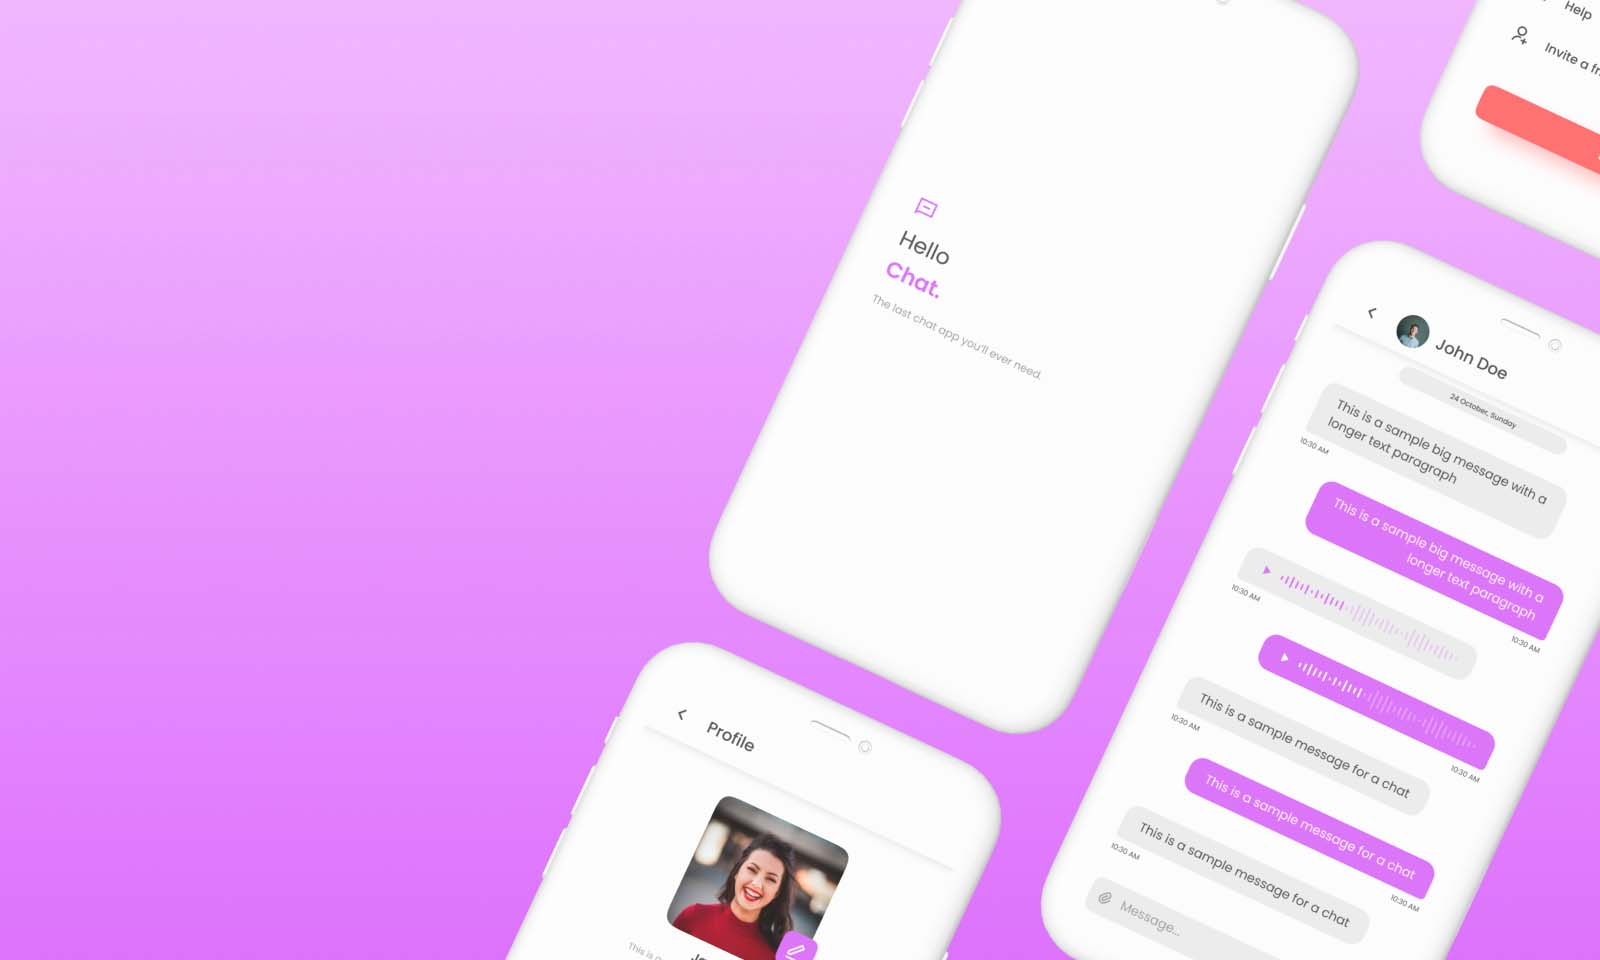
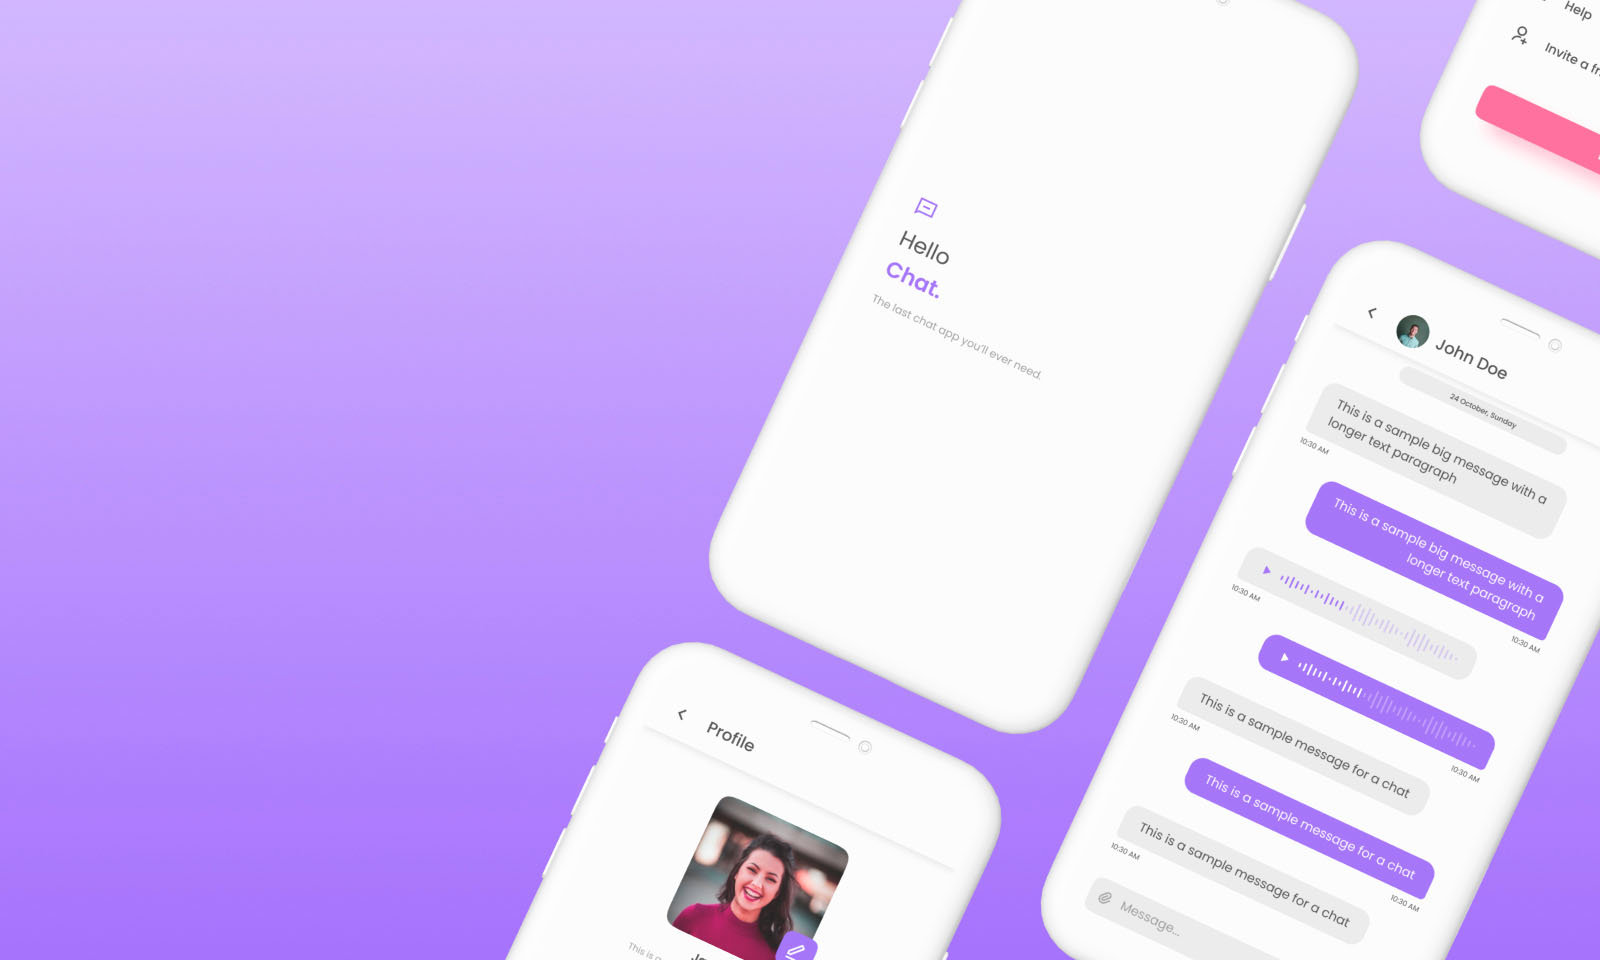
init: passport, passport-jwt; feat: checking token in start && add page loader; fix: styles;

diff --git a/frontend/src/components/icons/IconChatStatus.vue b/frontend/src/components/icons/IconChatStatus.vue
@@ -11,11 +11,11 @@
     <g id="SVGRepo_tracerCarrier" stroke-linecap="round" stroke-linejoin="round" />
 
     <g id="SVGRepo_iconCarrier">
-      <path d="M8 9H16" stroke="#c571f8" stroke-width="1.5" stroke-linecap="round" />
-      <path d="M8 12.5H13.5" stroke="#c571f8" stroke-width="1.5" stroke-linecap="round" />
+      <path d="M8 9H16" stroke="#9a78d8" stroke-width="1.5" stroke-linecap="round" />
+      <path d="M8 12.5H13.5" stroke="#9a78d8" stroke-width="1.5" stroke-linecap="round" />
       <path
         d="M13.0867 21.3877L13.7321 21.7697L13.0867 21.3877ZM13.6288 20.4718L12.9833 20.0898L13.6288 20.4718ZM10.3712 20.4718L9.72579 20.8539H9.72579L10.3712 20.4718ZM10.9133 21.3877L11.5587 21.0057L10.9133 21.3877ZM1.25 10.5C1.25 10.9142 1.58579 11.25 2 11.25C2.41421 11.25 2.75 10.9142 2.75 10.5H1.25ZM3.07351 15.6264C2.915 15.2437 2.47627 15.062 2.09359 15.2205C1.71091 15.379 1.52918 15.8177 1.68769 16.2004L3.07351 15.6264ZM7.78958 18.9915L7.77666 19.7413L7.78958 18.9915ZM5.08658 18.6194L4.79957 19.3123H4.79957L5.08658 18.6194ZM21.6194 15.9134L22.3123 16.2004V16.2004L21.6194 15.9134ZM16.2104 18.9915L16.1975 18.2416L16.2104 18.9915ZM18.9134 18.6194L19.2004 19.3123H19.2004L18.9134 18.6194ZM19.6125 2.7368L19.2206 3.37628L19.6125 2.7368ZM21.2632 4.38751L21.9027 3.99563V3.99563L21.2632 4.38751ZM4.38751 2.7368L3.99563 2.09732V2.09732L4.38751 2.7368ZM2.7368 4.38751L2.09732 3.99563H2.09732L2.7368 4.38751ZM9.40279 19.2098L9.77986 18.5615L9.77986 18.5615L9.40279 19.2098ZM13.7321 21.7697L14.2742 20.8539L12.9833 20.0898L12.4412 21.0057L13.7321 21.7697ZM9.72579 20.8539L10.2679 21.7697L11.5587 21.0057L11.0166 20.0898L9.72579 20.8539ZM12.4412 21.0057C12.2485 21.3313 11.7515 21.3313 11.5587 21.0057L10.2679 21.7697C11.0415 23.0767 12.9585 23.0767 13.7321 21.7697L12.4412 21.0057ZM10.5 2.75H13.5V1.25H10.5V2.75ZM21.25 10.5V11.5H22.75V10.5H21.25ZM7.8025 18.2416C6.54706 18.2199 5.88923 18.1401 5.37359 17.9265L4.79957 19.3123C5.60454 19.6457 6.52138 19.7197 7.77666 19.7413L7.8025 18.2416ZM1.68769 16.2004C2.27128 17.6093 3.39066 18.7287 4.79957 19.3123L5.3736 17.9265C4.33223 17.4951 3.50486 16.6678 3.07351 15.6264L1.68769 16.2004ZM21.25 11.5C21.25 12.6751 21.2496 13.5189 21.2042 14.1847C21.1592 14.8438 21.0726 15.2736 20.9265 15.6264L22.3123 16.2004C22.5468 15.6344 22.6505 15.0223 22.7007 14.2868C22.7504 13.5581 22.75 12.6546 22.75 11.5H21.25ZM16.2233 19.7413C17.4786 19.7197 18.3955 19.6457 19.2004 19.3123L18.6264 17.9265C18.1108 18.1401 17.4529 18.2199 16.1975 18.2416L16.2233 19.7413ZM20.9265 15.6264C20.4951 16.6678 19.6678 17.4951 18.6264 17.9265L19.2004 19.3123C20.6093 18.7287 21.7287 17.6093 22.3123 16.2004L20.9265 15.6264ZM13.5 2.75C15.1512 2.75 16.337 2.75079 17.2619 2.83873C18.1757 2.92561 18.7571 3.09223 19.2206 3.37628L20.0044 2.09732C19.2655 1.64457 18.4274 1.44279 17.4039 1.34547C16.3915 1.24921 15.1222 1.25 13.5 1.25V2.75ZM22.75 10.5C22.75 8.87781 22.7508 7.6085 22.6545 6.59611C22.5572 5.57256 22.3554 4.73445 21.9027 3.99563L20.6237 4.77938C20.9078 5.24291 21.0744 5.82434 21.1613 6.73809C21.2492 7.663 21.25 8.84876 21.25 10.5H22.75ZM19.2206 3.37628C19.7925 3.72672 20.2733 4.20752 20.6237 4.77938L21.9027 3.99563C21.4286 3.22194 20.7781 2.57144 20.0044 2.09732L19.2206 3.37628ZM10.5 1.25C8.87781 1.25 7.6085 1.24921 6.59611 1.34547C5.57256 1.44279 4.73445 1.64457 3.99563 2.09732L4.77938 3.37628C5.24291 3.09223 5.82434 2.92561 6.73809 2.83873C7.663 2.75079 8.84876 2.75 10.5 2.75V1.25ZM2.75 10.5C2.75 8.84876 2.75079 7.663 2.83873 6.73809C2.92561 5.82434 3.09223 5.24291 3.37628 4.77938L2.09732 3.99563C1.64457 4.73445 1.44279 5.57256 1.34547 6.59611C1.24921 7.6085 1.25 8.87781 1.25 10.5H2.75ZM3.99563 2.09732C3.22194 2.57144 2.57144 3.22194 2.09732 3.99563L3.37628 4.77938C3.72672 4.20752 4.20752 3.72672 4.77938 3.37628L3.99563 2.09732ZM11.0166 20.0898C10.8136 19.7468 10.6354 19.4441 10.4621 19.2063C10.2795 18.9559 10.0702 18.7304 9.77986 18.5615L9.02572 19.8582C9.07313 19.8857 9.13772 19.936 9.24985 20.0898C9.37122 20.2564 9.50835 20.4865 9.72579 20.8539L11.0166 20.0898ZM7.77666 19.7413C8.21575 19.7489 8.49387 19.7545 8.70588 19.7779C8.90399 19.7999 8.98078 19.832 9.02572 19.8582L9.77986 18.5615C9.4871 18.3912 9.18246 18.3215 8.87097 18.287C8.57339 18.2541 8.21375 18.2487 7.8025 18.2416L7.77666 19.7413ZM14.2742 20.8539C14.4916 20.4865 14.6287 20.2564 14.7501 20.0898C14.8622 19.936 14.9268 19.8857 14.9742 19.8582L14.2201 18.5615C13.9298 18.7304 13.7204 18.9559 13.5379 19.2063C13.3646 19.4441 13.1864 19.7468 12.9833 20.0898L14.2742 20.8539ZM16.1975 18.2416C15.7862 18.2487 15.4266 18.2541 15.129 18.287C14.8175 18.3215 14.5129 18.3912 14.2201 18.5615L14.9742 19.8582C15.0192 19.832 15.096 19.7999 15.2941 19.7779C15.5061 19.7545 15.7842 19.7489 16.2233 19.7413L16.1975 18.2416Z"
-        fill="#c571f8"
+        fill="#9a78d8"
       />
     </g>
   </svg>

diff --git a/frontend/src/store/useAuthStore.ts b/frontend/src/store/useAuthStore.ts
@@ -1,30 +1,59 @@
 import Cookies from 'js-cookie';
 import { defineStore } from 'pinia';
+import router from '@/router';
 import type { IUserData } from '@/types';
 import { decodeToken } from '@/utils/decodeToken';
+import { connectSocket } from '../socket';
+const apiUrl = import.meta.env.VITE_API_URL;
 
 export const useAuthStore = defineStore('auth', {
   state: () => ({
     isAuthenticated: false,
     token: null as string | null,
     user: null as IUserData | null,
+    isLoading: true,
   }),
   actions: {
-    checkAuth() {
+    async checkAuth() {
+      this.isLoading = true;
+
       const token = Cookies.get('auth_token');
       const decoded = decodeToken(token as string);
 
-      if (decoded) {
-        this.user = {
-          id: decoded.id,
-          userName: decoded.userName,
-          email: decoded.email,
-          colorAvatar: decoded.colorAvatar,
-        };
-        this.isAuthenticated = true;
-      } else {
-        this.logout();
+      if (token) {
+        try {
+          const response = await fetch(`${apiUrl}/auth/verify`, {
+            headers: {
+              Authorization: `Bearer ${token}`,
+            },
+          });
+
+          if (!response.ok) {
+            throw new Error('Token is invalid or expired');
+          }
+
+          if (decoded) {
+            this.user = {
+              id: decoded.id,
+              userName: decoded.userName,
+              email: decoded.email,
+              colorAvatar: decoded.colorAvatar,
+            };
+            this.isAuthenticated = true;
+          } else {
+            this.logout();
+          }
+
+          connectSocket();
+          router.push('/chat');
+        } catch (error) {
+          console.error('❌ Ошибка проверки токена:', error);
+          Cookies.remove('auth_token');
+          router.push('/');
+        }
       }
+
+      this.isLoading = false;
     },
     singUp() {
       this.checkAuth();

diff --git a/frontend/src/assets/styles/components/RightPanel.scss b/frontend/src/assets/styles/components/RightPanel.scss
@@ -78,12 +78,13 @@
 
         .right-panel__date {
           display: inline-block;
-          width: 220px;
-          padding: 8px 0px;
+          width: 150px;
+          padding: 6px 0px;
           border-radius: 20px;
-          background: #dfdfdf;
-          color: #505050;
+          background: #666;
+          color: #fff;
           font-weight: bold;
+          font-size: 14px;
         }
       }
 
@@ -106,10 +107,11 @@
 
           .right-panel__message-text {
             padding: 10px 15px;
-            background-color: #c571f8;
+            background-color: #9a78d8;
             border-radius: 20px 20px 5px 20px;
             color: #fff;
             max-width: 70%;
+            font-weight: 500;
           }
         }
 
@@ -122,6 +124,7 @@
             border-radius: 20px 20px 20px 5px;
             color: #505050;
             max-width: 70%;
+            font-weight: 500;
           }
         }
       }
@@ -154,7 +157,7 @@
       .right-panel__send-button {
         display: flex;
         padding: 8px;
-        background-color: #c571f8;
+        background-color: #9a78d8;
         color: white;
         border: none;
         border-radius: 4px;
@@ -167,7 +170,7 @@
         }
 
         &:hover {
-          background-color: #cd7ffd;
+          background-color: #9465e6;
         }
       }
     }

diff --git a/frontend/src/components/SignUp.vue b/frontend/src/components/SignUp.vue
@@ -4,9 +4,10 @@ import type { IRegistrationPayload } from '@/types';
 import { fetchAuth } from '@/utils/fetchAuth';
 import { generateRandomColor } from '@/utils/generateRandomColor';
 import { registrationSchema } from '@/yup/validationSchema';
-import FormLoader from './FormLoader.vue';
+import TheLoader from './TheLoader.vue';
+const apiUrl = import.meta.env.VITE_API_URL;
 
-const { isLoading, isError, errorMessage, submit } = fetchAuth('http://localhost:3000/users');
+const { isLoading, isError, errorMessage, submit } = fetchAuth(`${apiUrl}/users`);
 
 const { handleSubmit, errors } = useForm({
   validationSchema: registrationSchema,
@@ -75,7 +76,7 @@ const onSubmit = handleSubmit(async () => {
         >
           <span v-if="!isLoading">Зарегистрироваться</span>
           <template v-else>
-            <FormLoader />
+            <TheLoader backgroundColor="#ffffff" />
           </template>
         </button>
         <div v-if="isError" class="registration-form__error">{{ errorMessage }}</div>

diff --git a/frontend/src/components/SignIn.vue b/frontend/src/components/SignIn.vue
@@ -3,9 +3,10 @@ import { useField, useForm } from 'vee-validate';
 import type { ILoginPayload } from '@/types';
 import { fetchAuth } from '@/utils/fetchAuth';
 import { loginSchema } from '@/yup/validationSchema';
-import FormLoader from './FormLoader.vue';
+import TheLoader from './TheLoader.vue';
+const apiUrl = import.meta.env.VITE_API_URL;
 
-const { isLoading, isError, errorMessage, submit } = fetchAuth('http://localhost:3000/users/login');
+const { isLoading, isError, errorMessage, submit } = fetchAuth(`${apiUrl}/users/login`);
 
 const { handleSubmit, errors } = useForm({
   validationSchema: loginSchema,
@@ -49,7 +50,7 @@ const onSubmit = handleSubmit(async () => {
         >
           <span v-if="!isLoading">Авторизоваться</span>
           <template v-else>
-            <FormLoader />
+            <TheLoader backgroundColor="#ffffff" />
           </template>
         </button>
         <div v-if="isError" class="login-form__error">{{ errorMessage }}</div>

diff --git a/backend/src/app.module.ts b/backend/src/app.module.ts
@@ -1,6 +1,7 @@
 import { MiddlewareConsumer, Module, RequestMethod } from '@nestjs/common';
 import { AppController } from './app.controller';
 import { AppService } from './app.service';
+import { AuthModule } from './auth/auth.module';
 import { ChatGateway } from './chat/chat.gateway';
 import { ChatModule } from './chat/chat.module';
 import { MessageModule } from './message/message.modules';
@@ -9,7 +10,7 @@ import { AuthMiddleware } from './user/middlewares/auth.middleware';
 import { UserModule } from './user/user.module';
 
 @Module({
-  imports: [UserModule, MessageModule, ChatModule],
+  imports: [UserModule, MessageModule, ChatModule, AuthModule],
   controllers: [AppController],
   providers: [ChatGateway, AppService, PrismaService],
   exports: [PrismaService],

diff --git a/frontend/src/App.vue b/frontend/src/App.vue
@@ -1,18 +1,17 @@
 <script setup lang="ts">
-import Cookies from 'js-cookie';
-import { onMounted } from 'vue';
-import { connectSocket } from './socket';
+import { storeToRefs } from 'pinia';
+import PageLoader from './components/PageLoader.vue';
+import { useAuthStore } from './store/useAuthStore';
 
-onMounted(() => {
-  const token = Cookies.get('auth_token');
-  if (token) {
-    connectSocket();
-  }
-});
+const authStore = useAuthStore();
+const { isLoading } = storeToRefs(authStore);
 </script>
 
 <template>
-  <router-view />
+  <div v-if="isLoading">
+    <PageLoader />
+  </div>
+  <router-view v-else />
 </template>
 
 <style scoped></style>

diff --git a/frontend/src/utils/fetchSearchUsers.ts b/frontend/src/utils/fetchSearchUsers.ts
@@ -1,5 +1,6 @@
 import Cookies from 'js-cookie';
 import type { IUserData } from '@/types';
+const apiUrl = import.meta.env.VITE_API_URL;
 
 export async function fetchSearchUsers(query: string): Promise<IUserData[] | []> {
   if (query.trim().length === 0) return [];
@@ -8,7 +9,7 @@ export async function fetchSearchUsers(query: string): Promise<IUserData[] | []>
   if (!token) return [];
 
   try {
-    const res = await fetch(`http://192.168.22.120:3000/users/search-users?userName=${query}`, {
+    const res = await fetch(`${apiUrl}/users/search-users?userName=${query}`, {
       headers: {
         Authorization: `Bearer ${token}`,
       },

diff --git a/backend/src/auth/auth.module.ts b/backend/src/auth/auth.module.ts
@@ -1,0 +1,19 @@
+import { Module } from '@nestjs/common';
+import { JwtModule } from '@nestjs/jwt';
+import { PassportModule } from '@nestjs/passport';
+import { AuthController } from './auth.controller';
+// import { AuthService } from './auth.service';
+import { JwtStrategy } from './jwt.strategy';
+
+@Module({
+  imports: [
+    PassportModule,
+    JwtModule.register({
+      secret: process.env.JWT_SECRET,
+      signOptions: { expiresIn: '15m' },
+    }),
+  ],
+  providers: [JwtStrategy], // ⬅ ОБЯЗАТЕЛЬНО
+  controllers: [AuthController],
+})
+export class AuthModule {}

diff --git a/frontend/src/assets/styles/mixins/_forms.scss b/frontend/src/assets/styles/mixins/_forms.scss
@@ -33,7 +33,7 @@
   border-radius: 50%;
   text-decoration: none;
   background: white;
-  color: #c571f8;
+  color: #9a78d8;
   font-size: 24px;
   font-weight: bold;
 
@@ -115,7 +115,7 @@
 
 @mixin form-button {
   padding: 14px;
-  background-color: #c571f8;
+  background-color: #9a78d8;
   color: white;
   border: none;
   border-radius: 8px;
@@ -127,11 +127,11 @@
   height: 48px;
 
   &:hover {
-    background-color: #b45ef0;
+    background-color: #9465e6;
   }
 
   &:active {
-    background-color: #9d4fd9;
+    background-color: #8354d4;
   }
 
   &:disabled {

diff --git a/backend/src/auth/jwt.strategy.ts b/backend/src/auth/jwt.strategy.ts
@@ -1,0 +1,18 @@
+import { Injectable } from '@nestjs/common';
+import { PassportStrategy } from '@nestjs/passport';
+import { ExtractJwt, Strategy } from 'passport-jwt';
+import { IPayload } from '../types/index';
+
+@Injectable()
+export class JwtStrategy extends PassportStrategy(Strategy) {
+  constructor() {
+    super({
+      jwtFromRequest: ExtractJwt.fromAuthHeaderAsBearerToken(),
+      secretOrKey: process.env.JWT_SECRET,
+    });
+  }
+
+  async validate(payload: IPayload) {
+    return { id: payload.id, email: payload.email, role: payload.roleId };
+  }
+}

diff --git a/frontend/src/socket.ts b/frontend/src/socket.ts
@@ -1,5 +1,6 @@
 import { io, Socket } from 'socket.io-client';
 import { useAuthStore } from './store/useAuthStore';
+const apiUrl = import.meta.env.VITE_API_URL;
 
 export let socket: Socket | null = null;
 
@@ -8,7 +9,7 @@ export const connectSocket = (): Socket => {
   const userId = authStore.user?.id || null;
 
   if (!socket) {
-    socket = io('http://localhost:3000', {
+    socket = io(`${apiUrl}`, {
       withCredentials: true,
       query: {
         userId,
